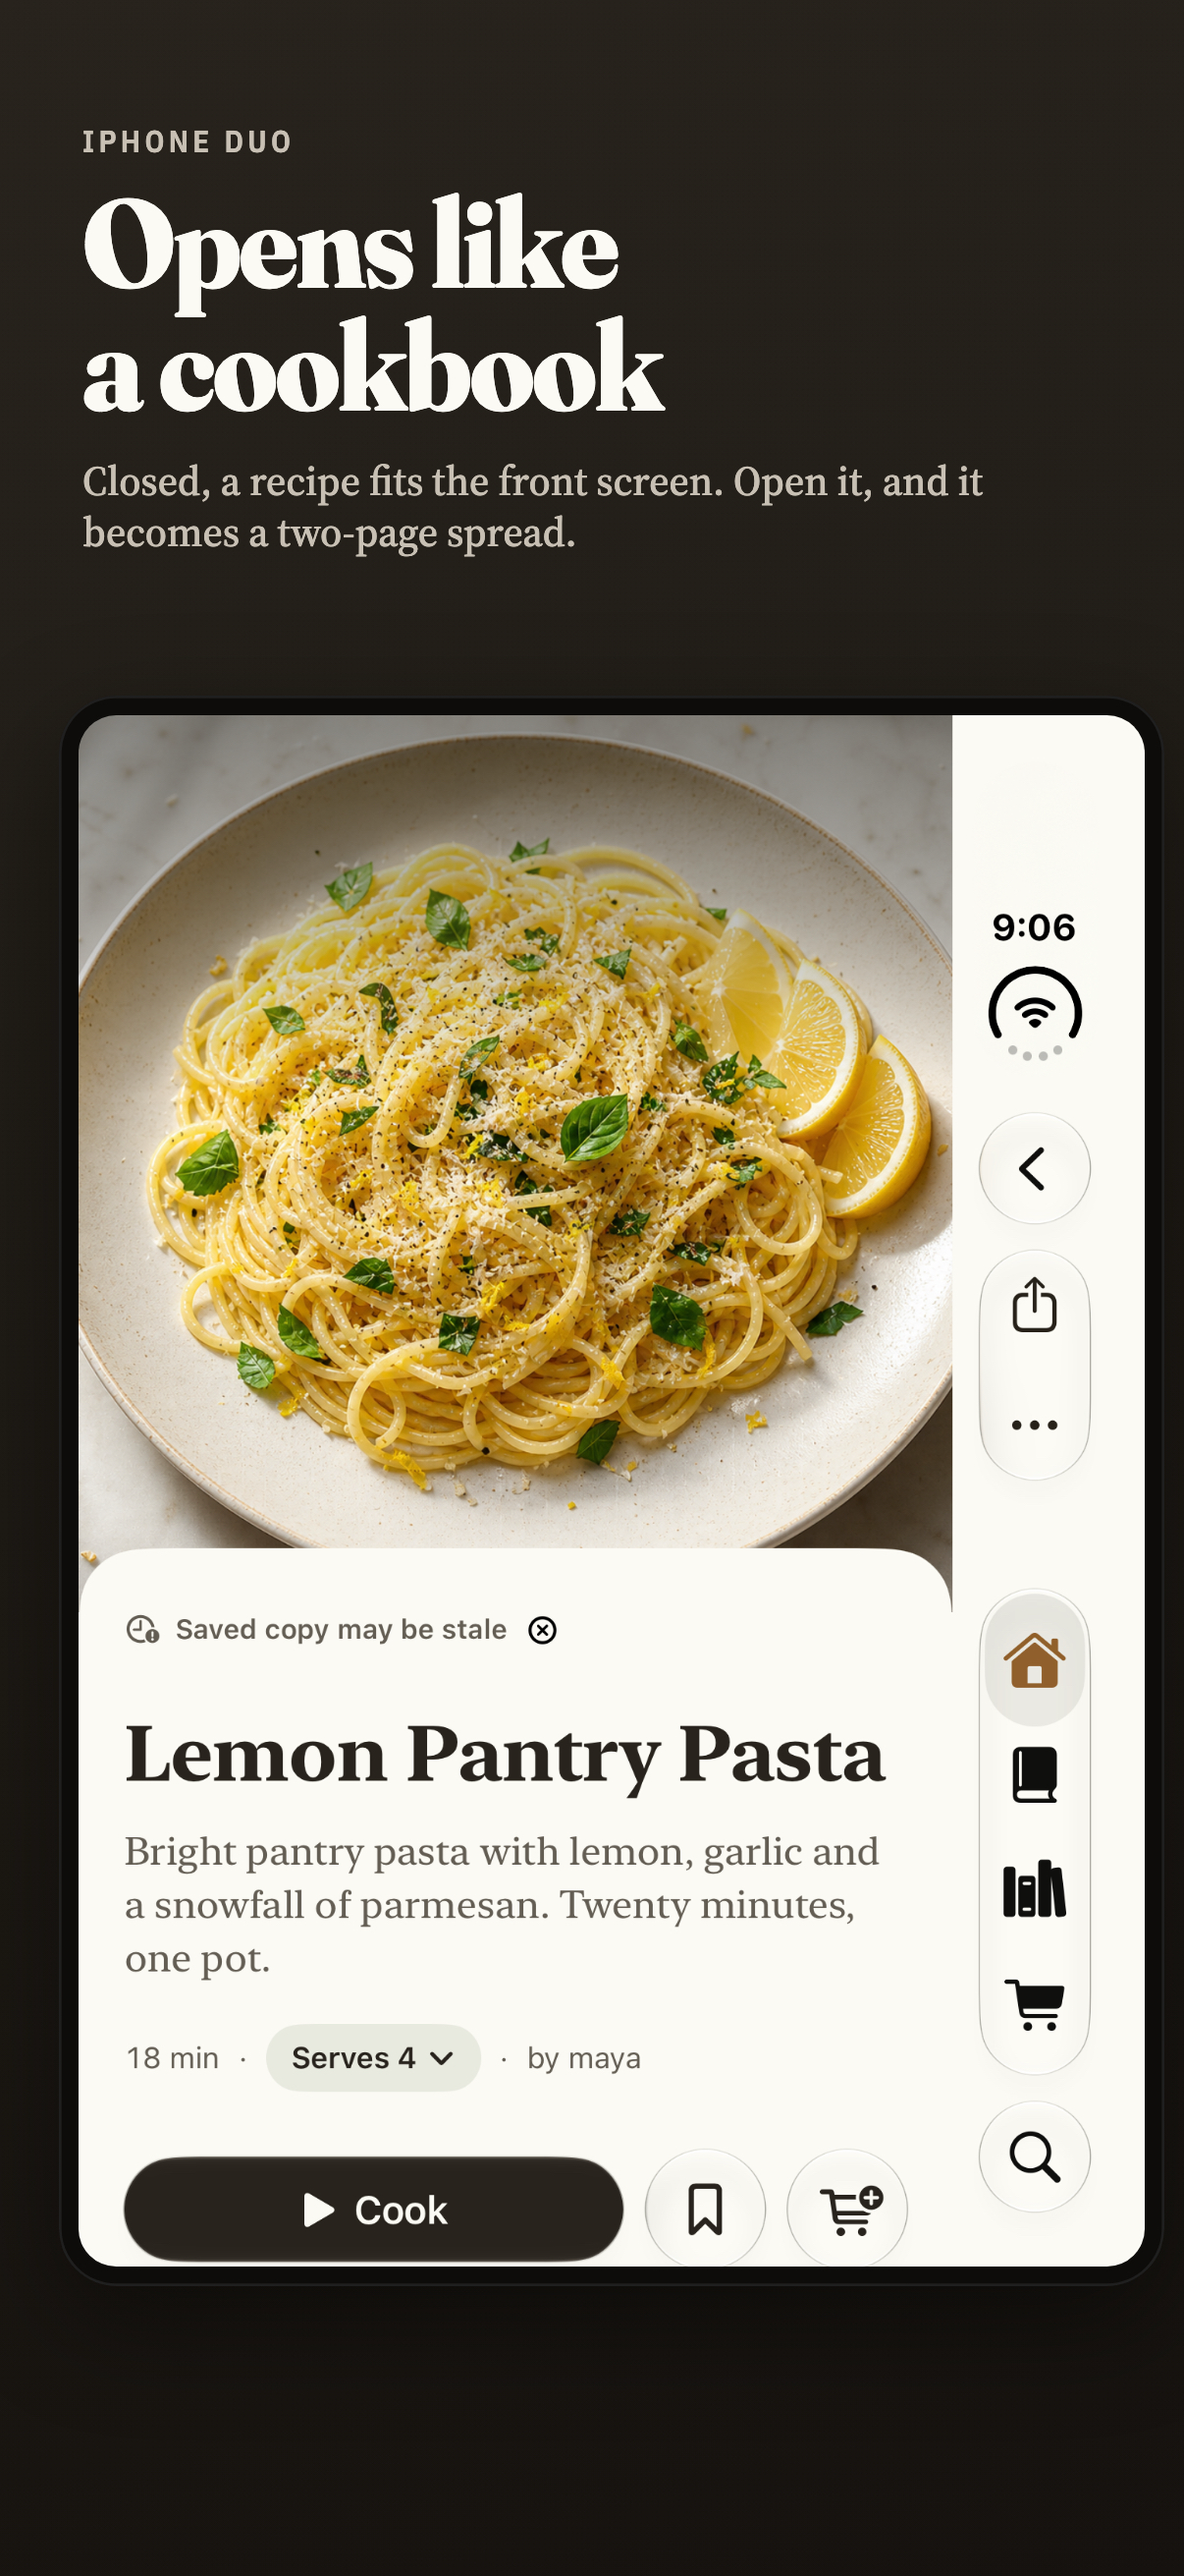
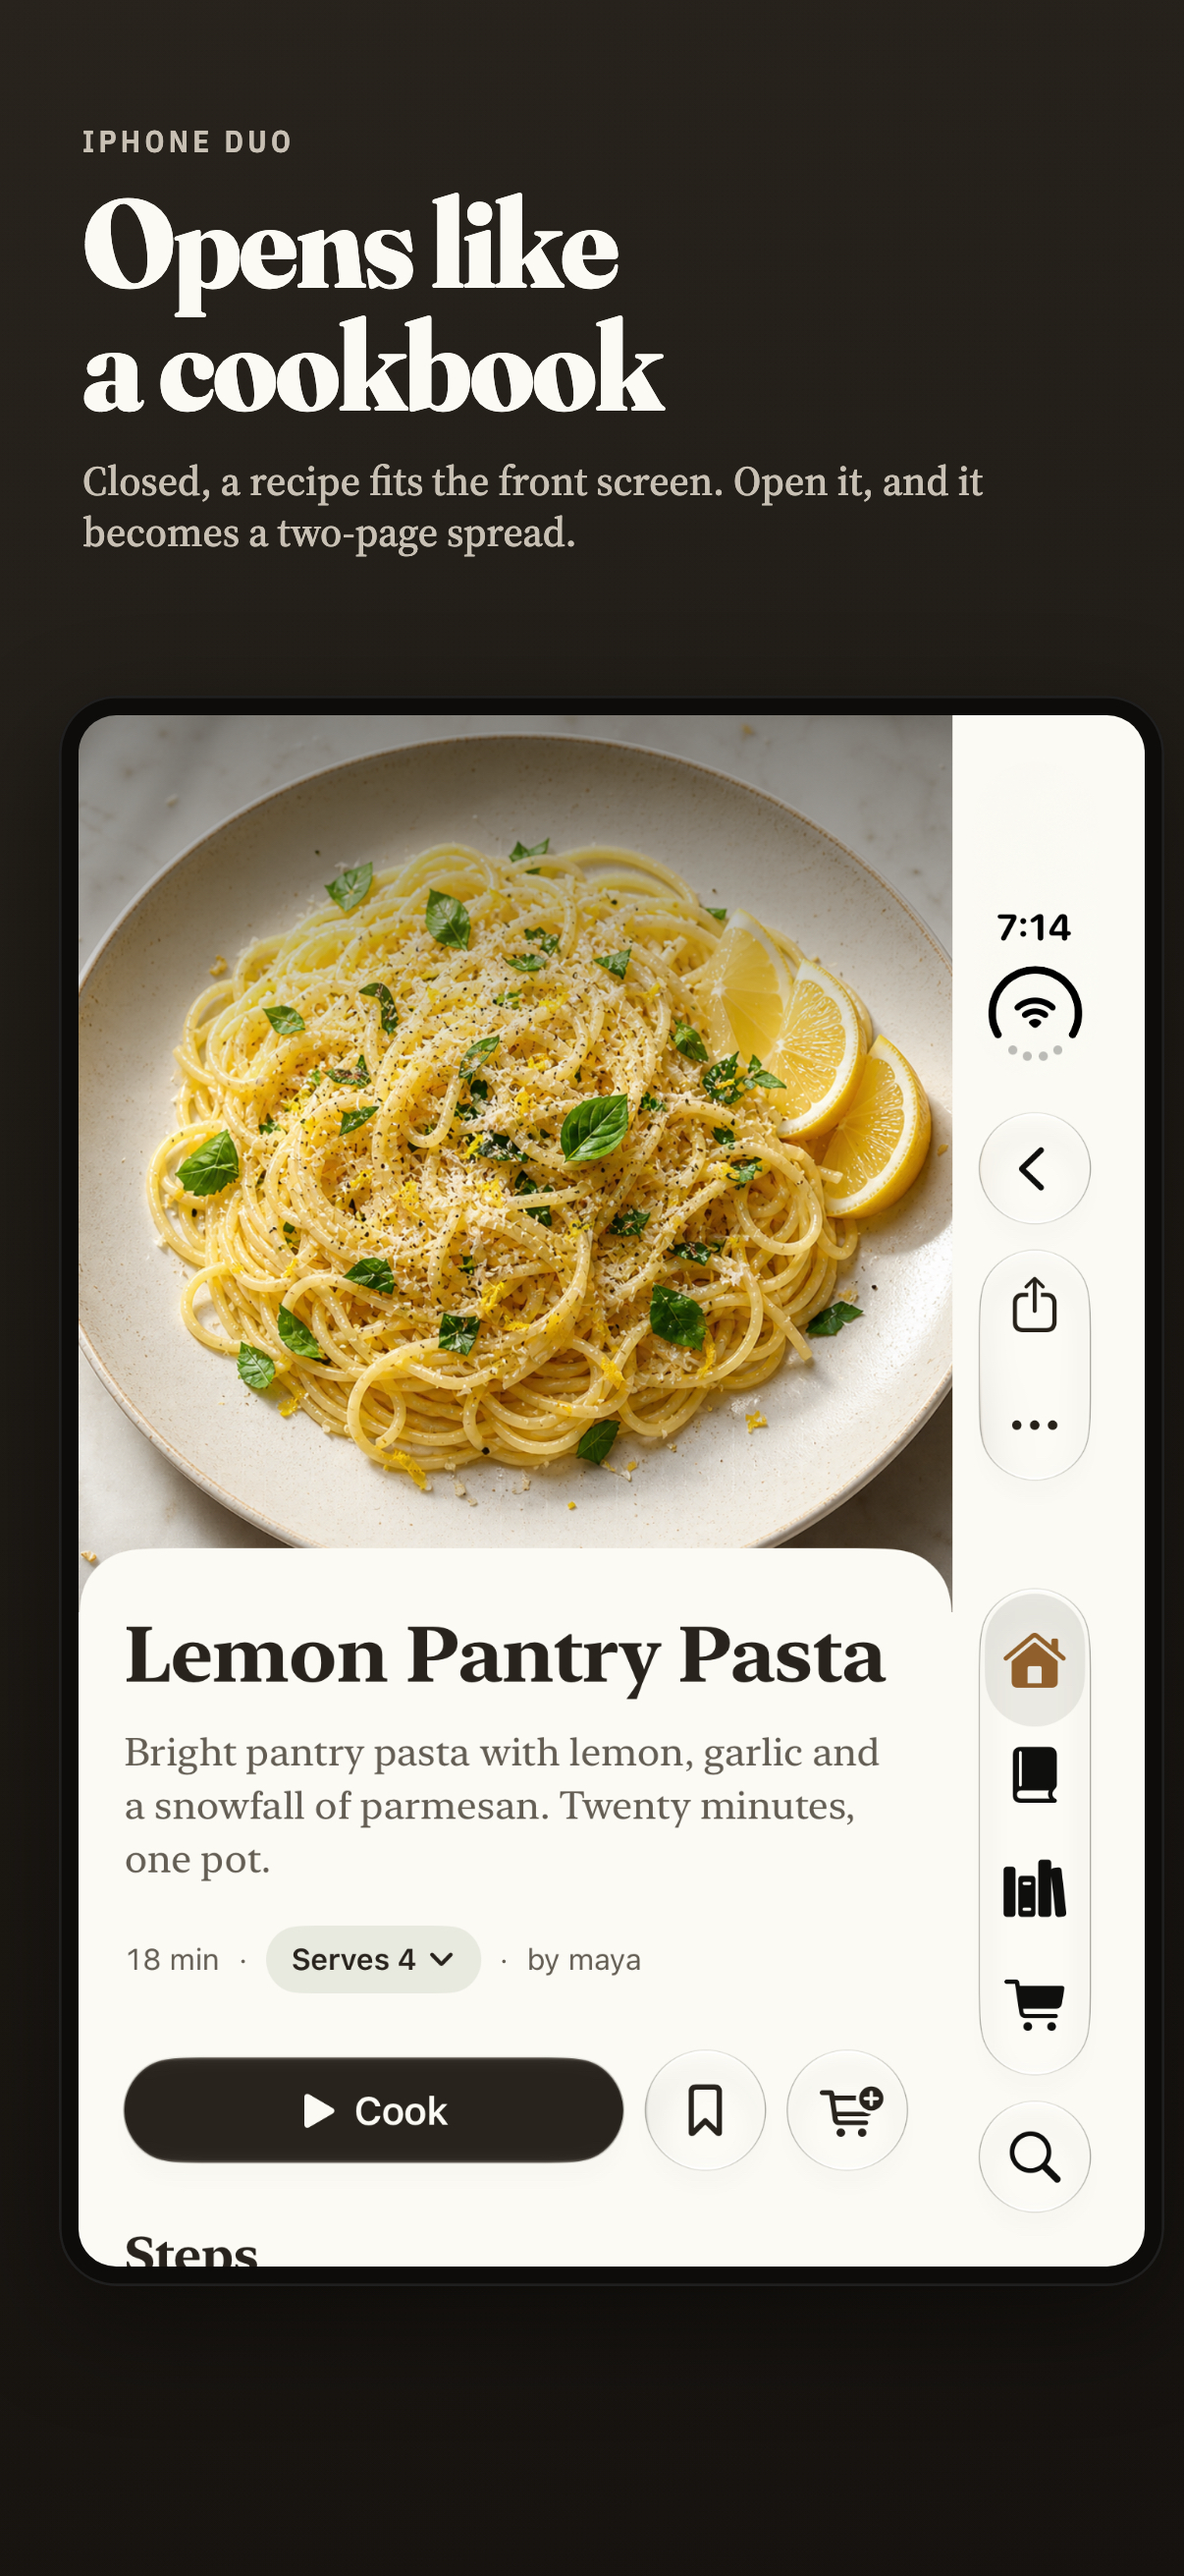
Recipe page: stale status dismiss works; 1.1 recipe and Duo frames without the label (#198)
* Recipe page: the stale status's dismiss button hides it

The recipe page's "Saved copy may be stale" button dismissed the app's offline status, but the page kept
showing its own. The page now follows that dismissal, as the reducer already does when a dismissed offline
status turns stale. A stale copy still shows until the chef dismisses it.

* 1.1 store art: recipe pages and the closed Duo front without the stale label

Recaptured with the recipe page's stale status dismissed by tap, now that its dismiss button works.

diff --git a/Apps/Spoonjoy/Shared/Views/RecipeDetailView.swift b/Apps/Spoonjoy/Shared/Views/RecipeDetailView.swift
@@ -28,6 +28,7 @@ struct RecipeDetailRouteView: View {
     let discardSpoonCookLogConflict: @MainActor @Sendable (String) async throws -> Void
     let performShoppingAction: @MainActor @Sendable (ShoppingSurfaceMutationPlan) async throws -> ShoppingSurfaceMutationOutcome
     let onDismissOfflineIndicator: @MainActor @Sendable () -> Void
+    let shellOfflineIndicatorDisplay: OfflineIndicatorDisplay?
 
     @State private var routeState: RecipeDetailRouteState
     @State private var errorMessage: String?
@@ -55,7 +56,8 @@ struct RecipeDetailRouteView: View {
         recordSpoonCookLogDraft: @escaping @MainActor @Sendable (SpoonCookLogDraftState?, String) -> Void,
         discardSpoonCookLogConflict: @escaping @MainActor @Sendable (String) async throws -> Void,
         performShoppingAction: @escaping @MainActor @Sendable (ShoppingSurfaceMutationPlan) async throws -> ShoppingSurfaceMutationOutcome,
-        onDismissOfflineIndicator: @escaping @MainActor @Sendable () -> Void = {}
+        onDismissOfflineIndicator: @escaping @MainActor @Sendable () -> Void = {},
+        shellOfflineIndicatorDisplay: OfflineIndicatorDisplay? = nil
     ) {
         self.recipeID = recipeID
         self.repository = repository
@@ -75,6 +77,7 @@ struct RecipeDetailRouteView: View {
         self.discardSpoonCookLogConflict = discardSpoonCookLogConflict
         self.performShoppingAction = performShoppingAction
         self.onDismissOfflineIndicator = onDismissOfflineIndicator
+        self.shellOfflineIndicatorDisplay = shellOfflineIndicatorDisplay
         _routeState = State(initialValue: initialViewModel.map(RecipeDetailRouteState.loaded) ?? .loading(snapshotTitle: loadingTitle))
     }
 
@@ -95,7 +98,8 @@ struct RecipeDetailRouteView: View {
                     recordSpoonCookLogDraft: recordSpoonCookLogDraft,
                     discardSpoonCookLogConflict: discardSpoonCookLogConflict,
                     performShoppingAction: performShoppingAction,
-                    onDismissOfflineIndicator: onDismissOfflineIndicator
+                    onDismissOfflineIndicator: onDismissOfflineIndicator,
+                    shellOfflineIndicatorDisplay: shellOfflineIndicatorDisplay
                 )
             case .loading(let snapshotTitle):
                 let loadingTitle = snapshotTitle
@@ -222,6 +226,8 @@ struct RecipeDetailView: View {
     let discardSpoonCookLogConflict: @MainActor @Sendable (String) async throws -> Void
     let performShoppingAction: @MainActor @Sendable (ShoppingSurfaceMutationPlan) async throws -> ShoppingSurfaceMutationOutcome
     let onDismissOfflineIndicator: @MainActor @Sendable () -> Void
+    /// The app's offline status, so this page's own status hides once the chef dismisses it.
+    var shellOfflineIndicatorDisplay: OfflineIndicatorDisplay? = nil
 
     @State private var actionErrorMessage: String?
     @State private var actionStatusMessage: String?
@@ -1168,8 +1174,9 @@ struct RecipeDetailView: View {
     }
 
     @ViewBuilder private var offlineIndicator: some View {
-        if viewModel.offlineIndicator.display != .synced {
-            OfflineStatusView(display: viewModel.offlineIndicator.display, onDismiss: onDismissOfflineIndicator)
+        let display = viewModel.offlineIndicator.display.honoringShellDismissal(shellOfflineIndicatorDisplay)
+        if display != .synced {
+            OfflineStatusView(display: display, onDismiss: onDismissOfflineIndicator)
         }
     }
 

diff --git a/Tests/SpoonjoyCoreTests/NativeCacheFreshnessTests.swift b/Tests/SpoonjoyCoreTests/NativeCacheFreshnessTests.swift
@@ -24,6 +24,22 @@ struct NativeCacheFreshnessTests {
         #expect(try JSONDecoder().decode(NativeCacheEnvironment.self, from: encoded) == .previewHost("branch-preview.spoonjoy.app"))
     }
 
+    @Test("a page's informational status hides once the chef dismisses the app's offline status")
+    func pageInformationalStatusHonorsShellDismissal() {
+        let stale = OfflineIndicatorDisplay.stale(domain: .recipeCatalog)
+        let dismissedShell = OfflineIndicatorDisplay.dismissed(previous: .offline, reason: .informationalOnly)
+
+        #expect(stale.honoringShellDismissal(dismissedShell) == .dismissed(previous: stale, reason: .informationalOnly))
+        #expect(!stale.honoringShellDismissal(dismissedShell).isVisible)
+        #expect(stale.honoringShellDismissal(.offline) == stale)
+        #expect(stale.honoringShellDismissal(nil) == stale)
+        #expect(OfflineIndicatorDisplay.synced.honoringShellDismissal(dismissedShell) == .synced)
+        let queued = OfflineIndicatorDisplay.queuedWork(count: 1, oldestClientMutationID: "mutation_1")
+        #expect(queued.honoringShellDismissal(dismissedShell) == queued)
+        let alreadyDismissed = OfflineIndicatorDisplay.dismissed(previous: stale, reason: .informationalOnly)
+        #expect(alreadyDismissed.honoringShellDismissal(dismissedShell) == alreadyDismissed)
+    }
+
     @Test("expanded native cache behavior contract is executable")
     func expandedNativeCacheBehaviorContractIsExecutable() throws {
         let result = try runSwiftContractPackage(

diff --git a/Sources/SpoonjoyCore/Cache/OfflineFreshnessIndicator.swift b/Sources/SpoonjoyCore/Cache/OfflineFreshnessIndicator.swift
@@ -46,6 +46,16 @@ public indirect enum OfflineIndicatorDisplay: Codable, Equatable, Hashable, Send
             true
         }
     }
+
+    /// A page's own status, hidden once the chef has dismissed the app's offline status. A page's informational
+    /// status (a saved copy that may be stale) has no dismissal of its own; its dismiss button hides the app's, so
+    /// the page follows that choice the way the reducer carries a dismissed offline status into a stale one.
+    public func honoringShellDismissal(_ shell: OfflineIndicatorDisplay?) -> OfflineIndicatorDisplay {
+        guard case .dismissed = shell, isVisible, informationalOnly else {
+            return self
+        }
+        return .dismissed(previous: self, reason: .informationalOnly)
+    }
 }
 
 public struct OfflineIndicatorState: Codable, Equatable, Hashable, Sendable {

diff --git a/Apps/Spoonjoy/Shared/AppShell/PlatformNavigationView.swift b/Apps/Spoonjoy/Shared/AppShell/PlatformNavigationView.swift
@@ -965,6 +965,7 @@ struct PlatformNavigationView: View {
             discardSpoonCookLogConflict: discardSpoonCookLogConflict(clientMutationID:),
             performShoppingAction: performShoppingAction,
             onDismissOfflineIndicator: dismissOfflineIndicator,
+            shellOfflineIndicatorDisplay: offlineIndicatorState.display,
         )
     }
 
